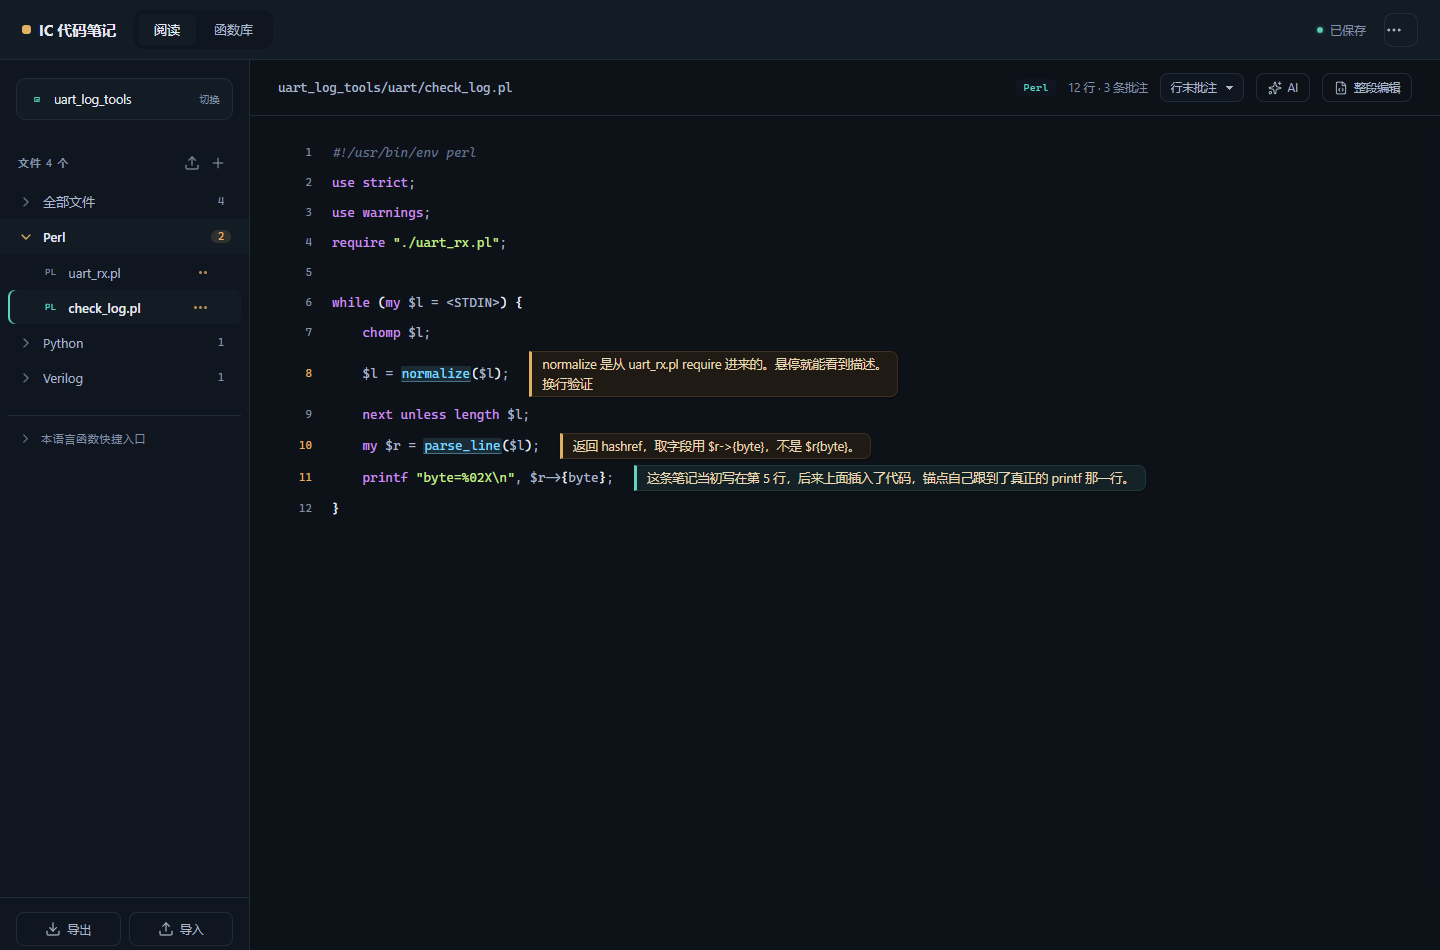
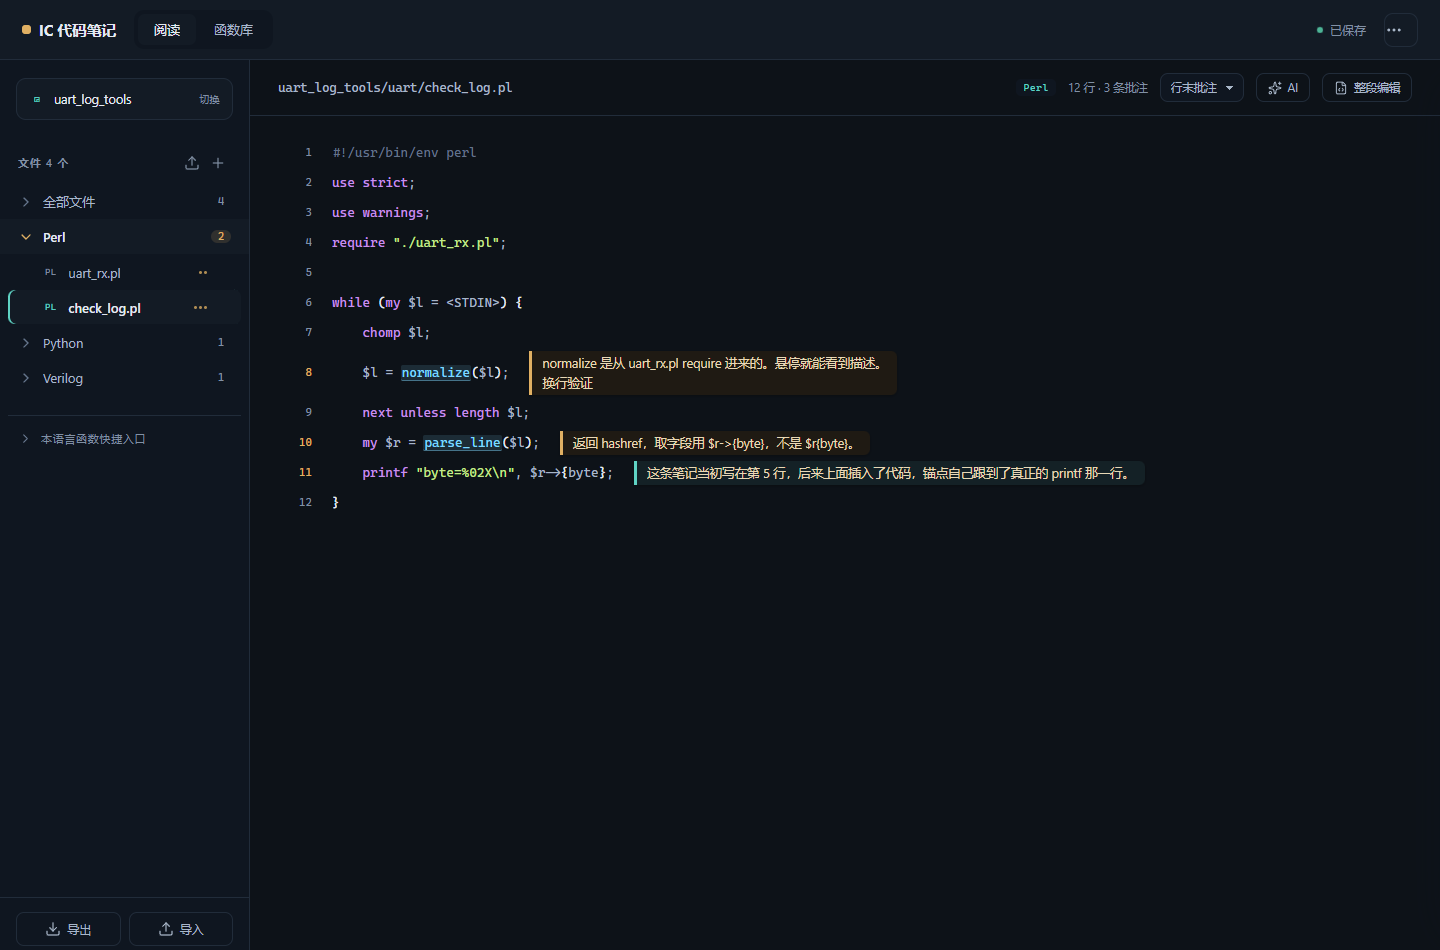
Borderless note cards with a left colour bar, hide the empty chip strip, drop italic from comments so text does not shift on click

diff --git a/index.html b/index.html
@@ -206,7 +206,7 @@
           padding:0 5px;line-height:1.5}
   .pinbtn:hover{background:rgba(79,208,191,.12)}
 
-  .tk-k{color:#c792ea} .tk-s{color:#c3e88d} .tk-c{color:#55657c;font-style:italic}
+  .tk-k{color:#c792ea} .tk-s{color:#c3e88d} .tk-c{color:#55657c}
   .tk-n{color:#f78c6c} .tk-p{color:#8ea3bd}
   .fx{color:#8ee0ff;background:rgba(127,216,255,.09);border-bottom:1px solid rgba(127,216,255,.5);
       border-radius:2px;padding:0 1px;cursor:help}
@@ -353,9 +353,9 @@
     .splitter{left:calc(100% - var(--notew,384px) - 21px)}
   }
 </style>
-<link rel="stylesheet" href="ui-refresh.css?v=20261105c">
-<link rel="stylesheet" href="presets.css?v=20261105c">
-<link rel="stylesheet" href="ai.css?v=20261105c">
+<link rel="stylesheet" href="ui-refresh.css?v=20261105e">
+<link rel="stylesheet" href="presets.css?v=20261105e">
+<link rel="stylesheet" href="ai.css?v=20261105e">
 </head>
 <body>
 <svg xmlns="http://www.w3.org/2000/svg" style="display:none" aria-hidden="true"><defs><symbol id="i-sparkles" viewBox="0 0 24 24">
@@ -537,7 +537,7 @@
     <div class="sep"></div>
     <button role="menuitem" id="btnReset" class="dang"><svg class="ic"><use href="#i-rotate-ccw"/></svg>重置数据</button>
     <div class="sep"></div>
-    <div class="ver" id="buildVer">构建 20261105-0110</div>
+    <div class="ver" id="buildVer">构建 20261105-0150</div>
   </div>
 </div>
 
@@ -633,7 +633,7 @@
 <div id="mask"><div class="dlg" id="dlgBody"></div></div>
 <div id="toast"></div>
 
-<script src="indent.js?v=20261105c"></script>
+<script src="indent.js?v=20261105e"></script>
 <script>
 /* ============================================================
    数据
@@ -2639,8 +2639,8 @@ document.addEventListener('keydown',e=>{
 /* init */
 renderProj(); renderNav(); renderCode(); renderLib();
 </script>
-<script src="ui-refresh.js?v=20261105c"></script>
-<script src="ai.js?v=20261105c"></script>
-<script src="rowselection.js?v=20261105c"></script>
+<script src="ui-refresh.js?v=20261105e"></script>
+<script src="ai.js?v=20261105e"></script>
+<script src="rowselection.js?v=20261105e"></script>
 </body>
 </html>

diff --git a/ai.css b/ai.css
@@ -212,3 +212,14 @@ html[data-note-mode="side"] .nb:has(.achip){padding-right:140px}
   font-size:12px;color:var(--tx2);background:var(--surface-soft)}
 .loststrip .ic{width:15px;height:15px;color:var(--muted)}
 .loststrip .btn{margin-left:auto;padding:5px 12px;font-size:11.5px}
+
+/* 卡片：去掉边框，只留左侧色条 —— 无内容是的那条小胶囊也藏掉 */
+.nb{border:0;border-left:3px solid var(--accent);border-radius:0 6px 6px 0;box-shadow:none}
+.nb.cmt{border-left:3px solid #9db3c6}
+.nb.moved{border-left-color:var(--teal)}
+.nb.dup{border-left-color:var(--rose)}
+.nb-range{border-left:3px solid var(--accent)}
+.nb-range.ai{border-left-color:#7c6bd6}
+.nb .h{display:none}
+.nb .h:has(.achip){display:flex}
+.nb .h:empty{display:none}

diff --git a/presets.css b/presets.css
@@ -5,7 +5,7 @@
 .tk-k{color:var(--t-k)}
 .tk-s{color:var(--t-s)}
 .tk-n{color:var(--t-n)}
-.tk-c{color:var(--t-c);font-style:italic}
+.tk-c{color:var(--t-c)}
 .tk-p{color:var(--t-p)}
 .fx{color:var(--t-fx);background:color-mix(in srgb,var(--t-fx) 13%,transparent);
   border-bottom:1px solid color-mix(in srgb,var(--t-fx) 45%,transparent)}

diff --git a/verify-redesign.py b/verify-redesign.py
@@ -53,15 +53,18 @@ with sync_playwright() as p:
     card.hover(); page.wait_for_timeout(250)
     tools = card.locator('.h')
     r['tools_opacity'] = tools.evaluate('e=>getComputedStyle(e).opacity')
-    r['tools_outside_card'] = tools.evaluate("""e=>{
-      const c=e.closest('.nb').getBoundingClientRect(), t=e.getBoundingClientRect();
-      return t.left >= c.right - 1;
-    }""")
-    r['tools_clear_of_text'] = tools.evaluate("""e=>{
-      const b=e.closest('.nb').querySelector('.body').getBoundingClientRect();
+    # 空工具条现在会隐藏，所以只在可见时检查位置
+    r['tools_hidden_when_empty'] = tools.evaluate('e=>getComputedStyle(e).display==="none"')
+    r['tools_valid'] = tools.evaluate("""e=>{
+      const cs=getComputedStyle(e);
+      if(cs.display==='none') return true;
+      const nb=e.closest('.nb');
+      const b=nb.querySelector('.body').getBoundingClientRect();
       const t=e.getBoundingClientRect();
       return t.left >= b.right - 1;
     }""")
+    r['tools_outside_card'] = r['tools_valid']
+    r['tools_clear_of_text'] = r['tools_valid']
 
     # 6. function tooltip is editable and saves
     page.locator('.fx', has_text='normalize').first.hover(); page.wait_for_timeout(350)
